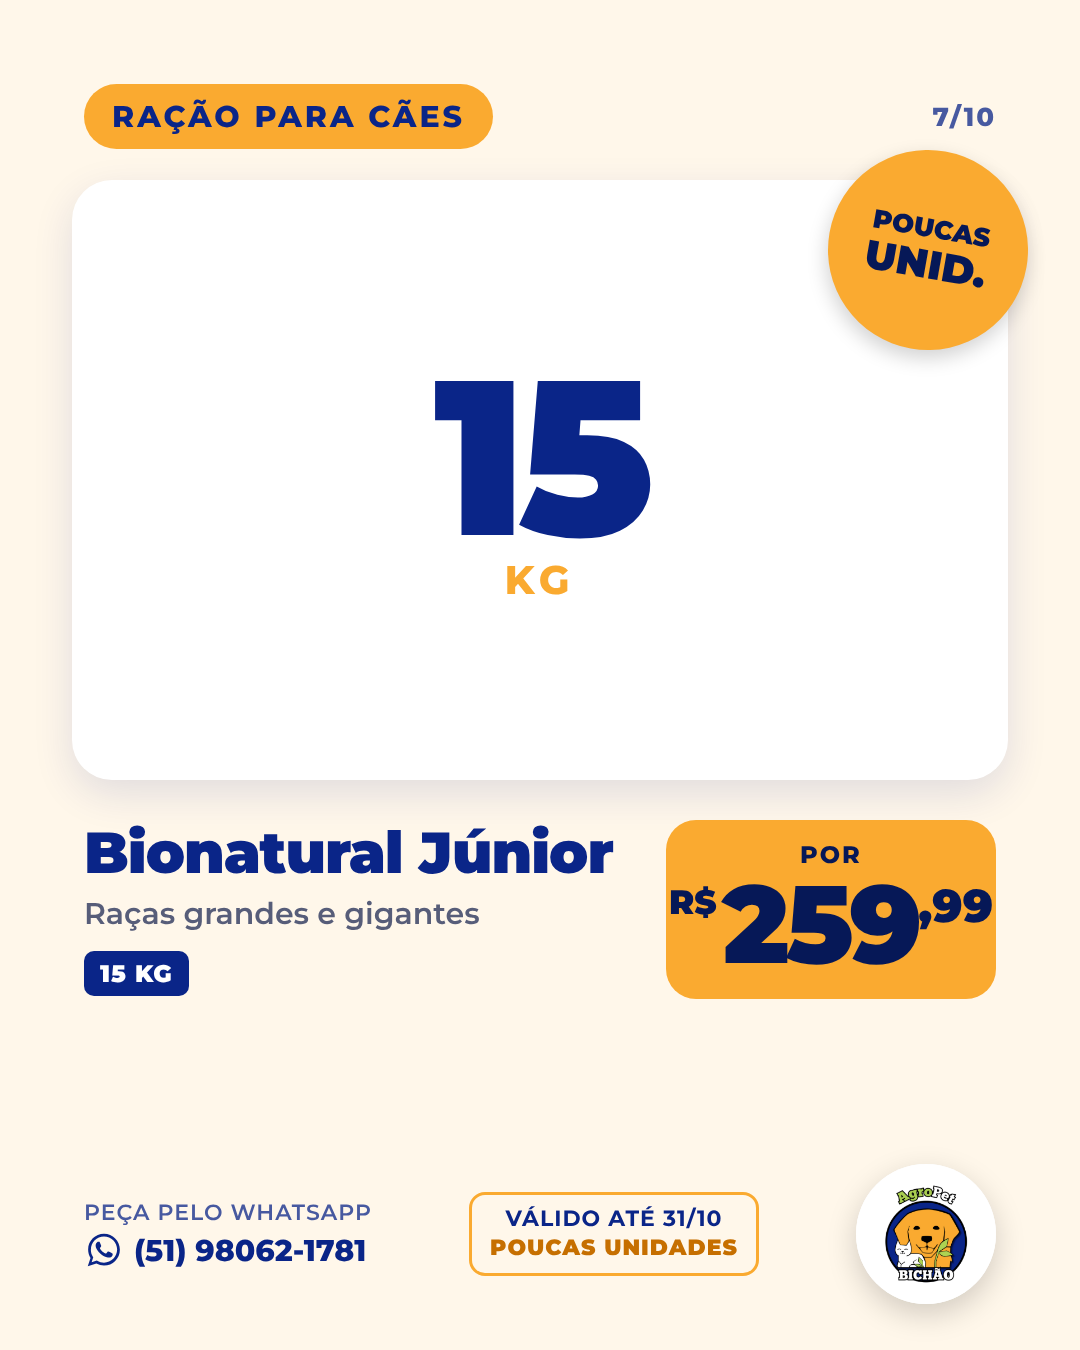
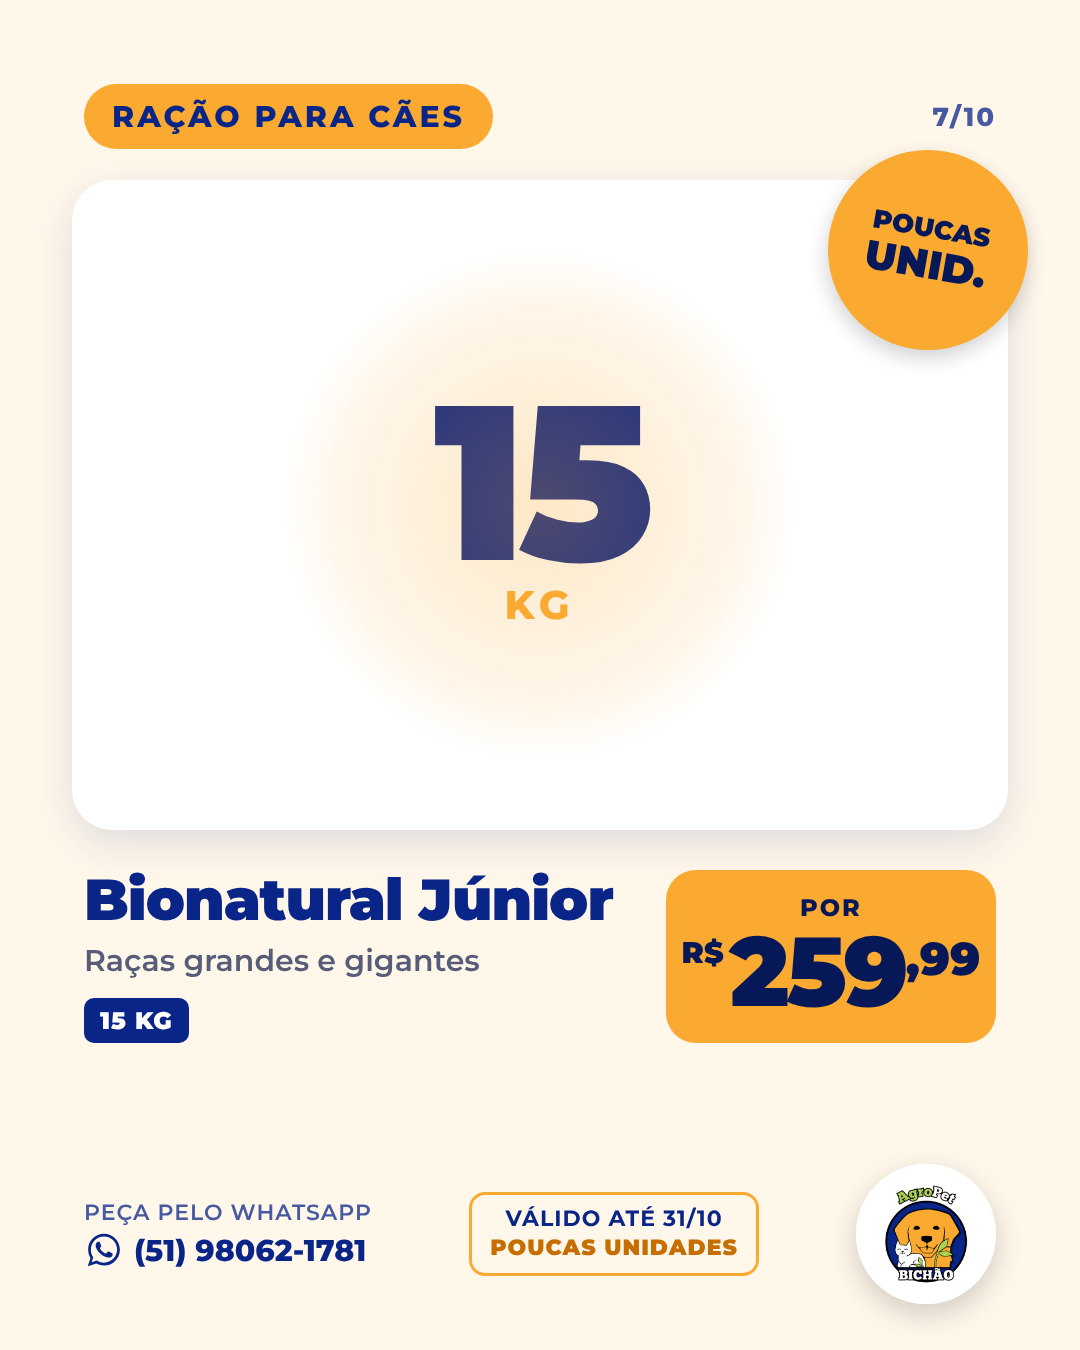
Fecha Mês Bichão: fotos oficiais (Cobasi) em 11 produtos
Claude-Session: https://claude.ai/code/session_01Gs9A9MNex2dmEc6dmLnRAu

Changed region(s): [[0.0611, 0.56, 0.9472, 0.7778], [0.3056, 0.2178, 0.6722, 0.5289]]

diff --git a/agropet-bichao/tools/gerar_fecha_mes.py b/agropet-bichao/tools/gerar_fecha_mes.py
@@ -233,9 +233,10 @@ SOLO_CSS = """
 .solo .top{position:absolute;left:84px;right:84px;top:84px;display:flex;justify-content:space-between;align-items:center}
 .solo .top .tag{background:var(--acento);color:var(--azul)}
 .solo .counter{position:static}
-.solo .vitrine{position:absolute;left:72px;right:72px;top:180px;height:600px;border-radius:40px;background:#fff;
+.solo .vitrine{position:absolute;left:72px;right:72px;top:180px;height:650px;border-radius:40px;background:#fff;
   display:flex;align-items:center;justify-content:center;overflow:hidden;box-shadow:0 14px 40px rgba(10,37,136,.12)}
-.solo .vitrine img{max-width:82%;max-height:88%;object-fit:contain}
+.solo .vitrine::before{content:"";position:absolute;width:520px;height:520px;border-radius:50%;background:radial-gradient(circle,rgba(250,170,48,.28) 0,rgba(250,170,48,.10) 55%,rgba(250,170,48,0) 70%)}
+.solo .vitrine img{position:relative;max-width:80%;max-height:86%;object-fit:contain;filter:drop-shadow(0 18px 24px rgba(10,20,60,.22))}
 .solo .vitrine .semfoto{text-align:center;color:var(--azul)}
 .solo .vitrine .semfoto b{display:block;font-weight:900;font-size:220px;line-height:.9;letter-spacing:-8px}
 .solo .vitrine .semfoto small{font-weight:800;font-size:40px;letter-spacing:6px;text-transform:uppercase;color:var(--laranja)}
@@ -243,7 +244,7 @@ SOLO_CSS = """
   color:var(--azul-esc);display:flex;flex-direction:column;align-items:center;justify-content:center;text-align:center;
   font-weight:900;font-size:26px;line-height:1.1;transform:rotate(10deg);box-shadow:0 8px 20px rgba(0,0,0,.18)}
 .solo .selo b{font-size:40px}
-.solo .dados{position:absolute;left:84px;right:84px;top:820px;display:flex;gap:30px;align-items:stretch}
+.solo .dados{position:absolute;left:84px;right:84px;top:870px;display:flex;gap:30px;align-items:stretch}
 .solo .txt{flex:1;display:flex;flex-direction:column;justify-content:center}
 .solo .nome{font-weight:900;font-size:58px;line-height:1.02;letter-spacing:-1px}
 .solo .desc{font-weight:600;font-size:30px;line-height:1.3;margin-top:12px;opacity:.85}
@@ -254,8 +255,8 @@ SOLO_CSS = """
   display:flex;flex-direction:column;align-items:center;justify-content:center;padding:20px}
 .solo .preco .por{font-weight:800;font-size:24px;letter-spacing:2px;text-transform:uppercase}
 .solo .preco .val{display:flex;align-items:flex-start;font-weight:900;line-height:1}
-.solo .preco .rs{font-size:34px;margin-top:16px;margin-right:6px}
-.solo .preco .int{font-size:110px;letter-spacing:-4px}
+.solo .preco .rs{font-size:30px;margin-top:16px;margin-right:6px}
+.solo .preco .int{font-size:98px;letter-spacing:-3px}
 .solo .preco .cent{font-size:46px;margin-top:14px}
 .solo.bg-azul .vitrine{box-shadow:0 0 0 4px rgba(250,170,48,.6)}
 .solo.bg-azul .chips span{background:#fff;color:var(--azul)}
@@ -298,9 +299,9 @@ CAES = [
     dict(slug="seresto-g", cat="Antipulgas e carrapatos", size="G", unit="Tamanho", brand="Coleira Seresto G",
          desc="Proteção contra pulgas e carrapatos", price="189,99"),
     dict(slug="nexgard-4-10kg", cat="Antipulgas e carrapatos", size="3", unit="unidades", brand="NexGard",
-         desc="Cães de 4 a 10 kg", extra="Combo 3 unidades", price="189,99", rotulo="combo por"),
-    dict(slug="origens-shih-tzu", cat="Ração para cães", size="10", unit="kg", brand="Origens Shih Tzu e Lhasa Apso",
-         desc="Cães adultos", price="109,99"),
+         desc="Cães de 4,1 a 10 kg · 3 tabletes", extra="Combo 3 unidades", price="189,99", rotulo="combo por"),
+    dict(slug="origens-shih-tzu", cat="Ração para cães", size="10,1", unit="kg", brand="Origens Shih Tzu e Lhasa Apso",
+         desc="Cães adultos · Raças específicas", price="109,99"),
     dict(slug="guabi-natural-caes-medias", cat="Ração para cães", size="12", unit="kg", brand="Guabi Natural",
          desc="Cães adultos · Raças médias", price="199,99"),
     dict(slug="bionatural-junior-grandes", cat="Ração para cães", size="15", unit="kg", brand="Bionatural Júnior",
@@ -321,12 +322,12 @@ GATOS = [
          desc="Gatos adultos", price="189,99"),
     dict(slug="premier-nattu-gatos-castrados", cat="Ração para gatos", size="7,5", unit="kg", brand="Premier Nattu",
          desc="Gatos castrados · Abóbora", price="199,99"),
-    dict(slug="nd-tropical-gatos", cat="Super premium", size="7,5", unit="kg", brand="N&amp;D Tropical",
+    dict(slug="nd-tropical-gatos", cat="Super premium", size="7,5", unit="kg", brand="N&amp;D Tropical Selection",
          desc="Gatos castrados · Frango", price="279,99", premium=True),
     dict(slug="premier-urinario-gatos", cat="Nutrição clínica", size="7,5", unit="kg", brand="Premier Urinário",
-         desc="Gatos", price="299,99", premium=True),
+         desc="Nutrição Clínica · Gatos adultos", price="299,99", premium=True),
     dict(slug="nd-pumpkin-gatos", cat="Super premium", size="7,5", unit="kg", brand="N&amp;D Pumpkin",
-         desc="Gatos adultos · Frango", price="419,99", premium=True),
+         desc="Gatos adultos · Frango e romã", price="419,99", premium=True),
 ]
 
 
